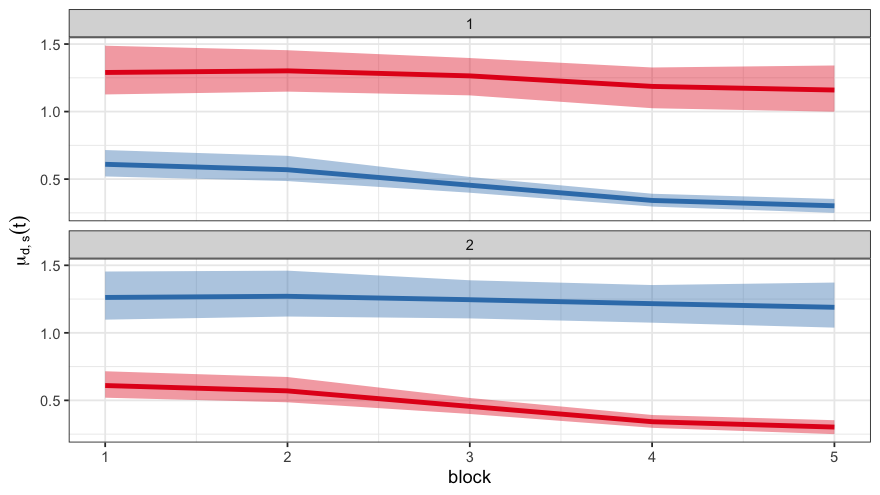
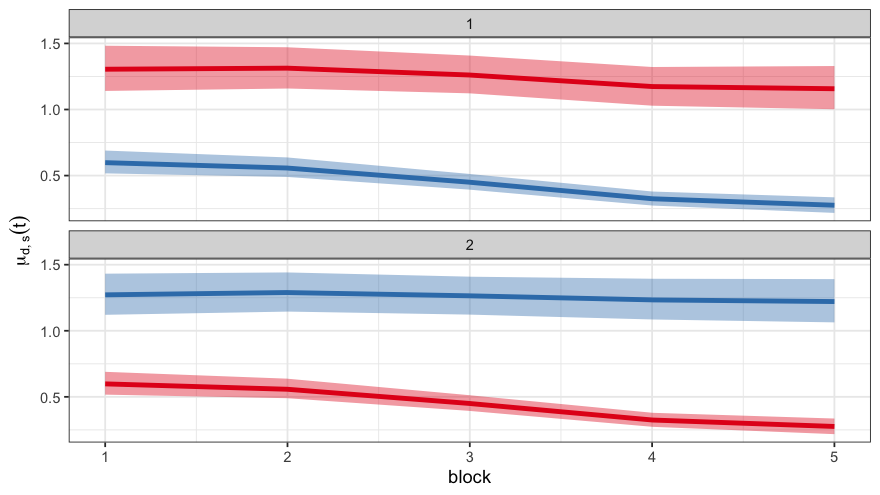
Add package links, longer README example, CRAN comments

diff --git a/README.md b/README.md
@@ -85,14 +85,15 @@ plot_accuracy(data)
 
 #### Fitting the model
 
-The run below is short so that the example is quick; for an analysis use
-something like `Niter = 5000, burnin = 2000, thin = 5`.
+The run below uses chain settings suitable for an analysis and takes
+about ten minutes; for a first look, a shorter chain such as
+`Niter = 1000, burnin = 500, thin = 2` is enough.
 
 ``` r
 set.seed(123)
 fit <- LDDMM(data = data,
              hypers = list(s_sigma_mu = 0.1, s_sigma_b = 0.1),
-             Niter = 1000, burnin = 500, thin = 2,
+             Niter = 5000, burnin = 2000, thin = 2,
              save_z = TRUE, verbose = FALSE)
 ```
 
@@ -159,11 +160,11 @@ ggplot(tidyr::pivot_longer(traces, -draw), aes(draw, value)) +
 ``` r
 round(sapply(fit$acceptance, mean), 2)
 #>        delta     beta1_mu         U_mu          U_b  sigma2_1_mu sigma2_mu_ua 
-#>         0.46         0.32         0.45         0.45         0.52         0.46 
+#>         0.45         0.34         0.45         0.45         0.49         0.38 
 #> sigma2_mu_us  sigma2_b_ua     scale_mu      scale_b    ridge_pop   ridge_subj 
-#>         0.37         0.58         0.41         0.35         0.01         0.35 
+#>         0.44         0.55         0.44         0.41         0.40         0.45 
 #>      beta1_b   sigma2_1_b  sigma2_b_us      alpha_C      alpha_I 
-#>         0.32         0.51         0.39         0.41         0.39
+#>         0.34         0.37         0.44         0.52         0.41
 ```
 
 #### Results
@@ -178,18 +179,18 @@ head(extract_post_mean(data, fit, par = 'drift'))
 #> # A tibble: 6 × 4
 #>   block subject drift_1_1 drift_2_2
 #>   <int>   <dbl>     <dbl>     <dbl>
-#> 1     1       1     0.511     0.501
-#> 2     2       1     0.508     0.496
-#> 3     3       1     0.542     0.534
-#> 4     4       1     0.585     0.599
-#> 5     5       1     0.584     0.598
-#> 6     1       2     1.07      1.05
+#> 1     1       1     0.497     0.485
+#> 2     2       1     0.494     0.485
+#> 3     3       1     0.530     0.532
+#> 4     4       1     0.570     0.599
+#> 5     5       1     0.592     0.625
+#> 6     1       2     1.10      1.07
 compute_WAIC(fit)
-#> [1] 31769.01
+#> [1] 31762.67
 # probability that the correct-response curves of the two stimuli share a
 # cluster, for each spline coefficient
 round(apply(fit$Z[1, 1, , ] == fit$Z[2, 2, , ], 1, mean), 2)
-#> [1] 0.90 0.82 0.00 0.88 0.00 0.92
+#> [1] 0.95 0.64 0.00 0.77 0.00 0.85
 ```
 
 #### Model options

diff --git a/cran-comments.md b/cran-comments.md
@@ -1,4 +1,26 @@
-── R CMD check results ──────────────────────────────────────────────────────────────────────── lddmm 0.4.2 ────
-Duration: 22.2s
+## Submission
 
-0 errors ✔ | 0 warnings ✔ | 0 notes ✔
+This is an update of lddmm from 0.4.2 to 1.0.0. It introduces an improved
+sampler; the changes are listed in NEWS.md.
+
+The maintainer's e-mail address has changed from giorgio.paulon@utexas.edu
+to giorgiopaulon90@gmail.com. The maintainer is the same person.
+
+## Test environments
+
+* local macOS (aarch64), R 4.6.1
+* win-builder, R-devel
+
+## R CMD check results
+
+0 errors | 0 warnings | 1 note
+
+* checking CRAN incoming feasibility ... NOTE
+  New maintainer: Giorgio Paulon <giorgiopaulon90@gmail.com>
+  Old maintainer(s): Giorgio Paulon <giorgio.paulon@utexas.edu>
+
+  This is the change of e-mail address explained above.
+
+## Reverse dependencies
+
+There are no reverse dependencies on CRAN.
